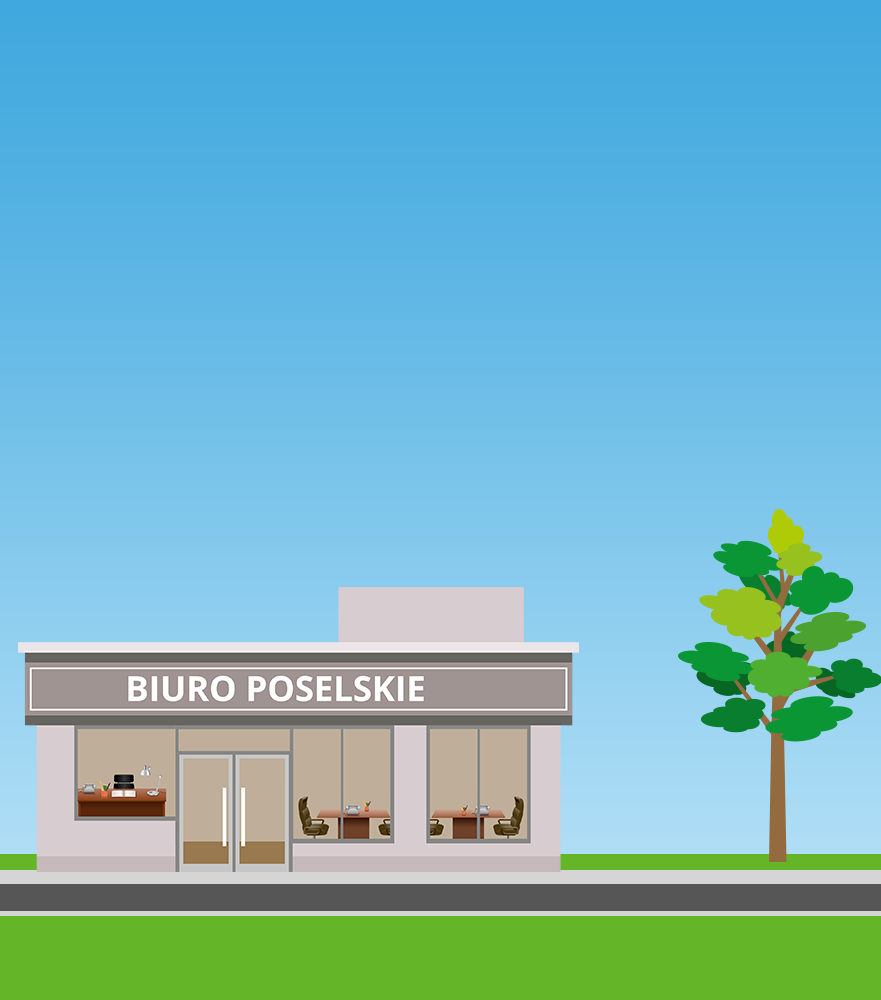
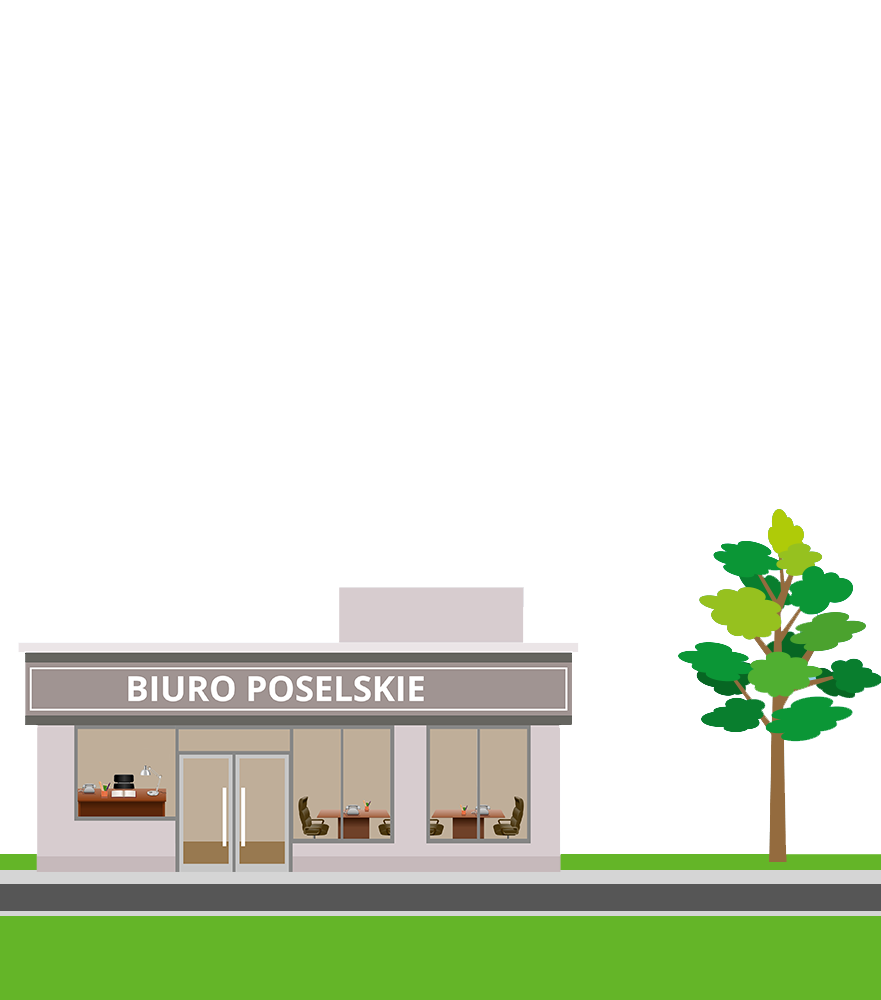
Sejmometr infograph

diff --git a/app/Plugin/Sejmometr/webroot/js/jquery.mousewheel.js b/app/Plugin/Sejmometr/webroot/js/jquery.mousewheel.js
@@ -1,0 +1,234 @@
+/*! Copyright (c) 2013 Brandon Aaron (http://brandon.aaron.sh)
+ * Licensed under the MIT License (LICENSE.txt).
+ *
+ * Version: 3.1.11
+ *
+ * Requires: jQuery 1.2.2+
+ */
+
+(function (factory) {
+    if (typeof define === 'function' && define.amd) {
+        // AMD. Register as an anonymous module.
+        define(['jquery'], factory);
+    } else if (typeof exports === 'object') {
+        // Node/CommonJS style for Browserify
+        module.exports = factory;
+    } else {
+        // Browser globals
+        factory(jQuery);
+    }
+}(function ($) {
+
+    var toFix = ['wheel', 'mousewheel', 'DOMMouseScroll', 'MozMousePixelScroll'],
+        toBind = ( 'onwheel' in document || document.documentMode >= 9 ) ?
+            ['wheel'] : ['mousewheel', 'DomMouseScroll', 'MozMousePixelScroll'],
+        slice = Array.prototype.slice,
+        nullLowestDeltaTimeout, lowestDelta;
+
+    if ($.event.fixHooks) {
+        for (var i = toFix.length; i;) {
+            $.event.fixHooks[ toFix[--i] ] = $.event.mouseHooks;
+        }
+    }
+
+    var special = $.event.special.mousewheel = {
+        version: '3.1.11',
+
+        setup: function () {
+            if (this.addEventListener) {
+                for (var i = toBind.length; i;) {
+                    this.addEventListener(toBind[--i], handler, false);
+                }
+            } else {
+                this.onmousewheel = handler;
+            }
+            // Store the line height and page height for this particular element
+            $.data(this, 'mousewheel-line-height', special.getLineHeight(this));
+            $.data(this, 'mousewheel-page-height', special.getPageHeight(this));
+        },
+
+        teardown: function () {
+            if (this.removeEventListener) {
+                for (var i = toBind.length; i;) {
+                    this.removeEventListener(toBind[--i], handler, false);
+                }
+            } else {
+                this.onmousewheel = null;
+            }
+            // Clean up the data we added to the element
+            $.removeData(this, 'mousewheel-line-height');
+            $.removeData(this, 'mousewheel-page-height');
+        },
+
+        getLineHeight: function (elem) {
+            var $parent = $(elem)['offsetParent' in $.fn ? 'offsetParent' : 'parent']();
+            if (!$parent.length) {
+                $parent = $('body');
+            }
+            return parseInt($parent.css('fontSize'), 10);
+        },
+
+        getPageHeight: function (elem) {
+            return $(elem).height();
+        },
+
+        settings: {
+            adjustOldDeltas: true, // see shouldAdjustOldDeltas() below
+            normalizeOffset: true  // calls getBoundingClientRect for each event
+        }
+    };
+
+    $.fn.extend({
+        mousewheel: function (fn) {
+            return fn ? this.bind('mousewheel', fn) : this.trigger('mousewheel');
+        },
+
+        unmousewheel: function (fn) {
+            return this.unbind('mousewheel', fn);
+        }
+    });
+
+
+    function handler(event) {
+        var orgEvent = event || window.event,
+            args = slice.call(arguments, 1),
+            delta = 0,
+            deltaX = 0,
+            deltaY = 0,
+            absDelta = 0,
+            offsetX = 0,
+            offsetY = 0;
+        event = $.event.fix(orgEvent);
+        event.type = 'mousewheel';
+
+        // Old school scrollwheel delta
+        if ('detail'      in orgEvent) {
+            deltaY = orgEvent.detail * -1;
+        }
+        if ('wheelDelta'  in orgEvent) {
+            deltaY = orgEvent.wheelDelta;
+        }
+        if ('wheelDeltaY' in orgEvent) {
+            deltaY = orgEvent.wheelDeltaY;
+        }
+        if ('wheelDeltaX' in orgEvent) {
+            deltaX = orgEvent.wheelDeltaX * -1;
+        }
+
+        // Firefox < 17 horizontal scrolling related to DOMMouseScroll event
+        if ('axis' in orgEvent && orgEvent.axis === orgEvent.HORIZONTAL_AXIS) {
+            deltaX = deltaY * -1;
+            deltaY = 0;
+        }
+
+        // Set delta to be deltaY or deltaX if deltaY is 0 for backwards compatabilitiy
+        delta = deltaY === 0 ? deltaX : deltaY;
+
+        // New school wheel delta (wheel event)
+        if ('deltaY' in orgEvent) {
+            deltaY = orgEvent.deltaY * -1;
+            delta = deltaY;
+        }
+        if ('deltaX' in orgEvent) {
+            deltaX = orgEvent.deltaX;
+            if (deltaY === 0) {
+                delta = deltaX * -1;
+            }
+        }
+
+        // No change actually happened, no reason to go any further
+        if (deltaY === 0 && deltaX === 0) {
+            return;
+        }
+
+        // Need to convert lines and pages to pixels if we aren't already in pixels
+        // There are three delta modes:
+        //   * deltaMode 0 is by pixels, nothing to do
+        //   * deltaMode 1 is by lines
+        //   * deltaMode 2 is by pages
+        if (orgEvent.deltaMode === 1) {
+            var lineHeight = $.data(this, 'mousewheel-line-height');
+            delta *= lineHeight;
+            deltaY *= lineHeight;
+            deltaX *= lineHeight;
+        } else if (orgEvent.deltaMode === 2) {
+            var pageHeight = $.data(this, 'mousewheel-page-height');
+            delta *= pageHeight;
+            deltaY *= pageHeight;
+            deltaX *= pageHeight;
+        }
+
+        // Store lowest absolute delta to normalize the delta values
+        absDelta = Math.max(Math.abs(deltaY), Math.abs(deltaX));
+
+        if (!lowestDelta || absDelta < lowestDelta) {
+            lowestDelta = absDelta;
+
+            // Adjust older deltas if necessary
+            if (shouldAdjustOldDeltas(orgEvent, absDelta)) {
+                lowestDelta /= 40;
+            }
+        }
+
+        // Adjust older deltas if necessary
+        if (shouldAdjustOldDeltas(orgEvent, absDelta)) {
+            // Divide all the things by 40!
+            delta /= 40;
+            deltaX /= 40;
+            deltaY /= 40;
+        }
+
+        // Get a whole, normalized value for the deltas
+        delta = Math[ delta >= 1 ? 'floor' : 'ceil' ](delta / lowestDelta);
+        deltaX = Math[ deltaX >= 1 ? 'floor' : 'ceil' ](deltaX / lowestDelta);
+        deltaY = Math[ deltaY >= 1 ? 'floor' : 'ceil' ](deltaY / lowestDelta);
+
+        // Normalise offsetX and offsetY properties
+        if (special.settings.normalizeOffset && this.getBoundingClientRect) {
+            var boundingRect = this.getBoundingClientRect();
+            offsetX = event.clientX - boundingRect.left;
+            offsetY = event.clientY - boundingRect.top;
+        }
+
+        // Add information to the event object
+        event.deltaX = deltaX;
+        event.deltaY = deltaY;
+        event.deltaFactor = lowestDelta;
+        event.offsetX = offsetX;
+        event.offsetY = offsetY;
+        // Go ahead and set deltaMode to 0 since we converted to pixels
+        // Although this is a little odd since we overwrite the deltaX/Y
+        // properties with normalized deltas.
+        event.deltaMode = 0;
+
+        // Add event and delta to the front of the arguments
+        args.unshift(event, delta, deltaX, deltaY);
+
+        // Clearout lowestDelta after sometime to better
+        // handle multiple device types that give different
+        // a different lowestDelta
+        // Ex: trackpad = 3 and mouse wheel = 120
+        if (nullLowestDeltaTimeout) {
+            clearTimeout(nullLowestDeltaTimeout);
+        }
+        nullLowestDeltaTimeout = setTimeout(nullLowestDelta, 200);
+
+        return ($.event.dispatch || $.event.handle).apply(this, args);
+    }
+
+    function nullLowestDelta() {
+        lowestDelta = null;
+    }
+
+    function shouldAdjustOldDeltas(orgEvent, absDelta) {
+        // If this is an older event and the delta is divisable by 120,
+        // then we are assuming that the browser is treating this as an
+        // older mouse wheel event and that we should divide the deltas
+        // by 40 to try and get a more usable deltaFactor.
+        // Side note, this actually impacts the reported scroll distance
+        // in older browsers and can cause scrolling to be slower than native.
+        // Turn this off by setting $.event.special.mousewheel.settings.adjustOldDeltas to false.
+        return special.settings.adjustOldDeltas && orgEvent.type === 'mousewheel' && absDelta % 120 === 0;
+    }
+
+}));

diff --git a/app/Plugin/Sejmometr/webroot/js/inner-story.js b/app/Plugin/Sejmometr/webroot/js/inner-story.js
@@ -6,12 +6,93 @@
         $near = $story.find('.near'),
         sceneCount = $medium.find('.scene:last').data('scene'),
         minScreenWidth = 1204,
-        screenWidth = ($body.innerWidth() < minScreenWidth) ? minScreenWidth : $body.innerWidth();
+        screenWidth = ($body.innerWidth() < minScreenWidth) ? minScreenWidth : $body.innerWidth(),
+        screenPosPrev = 0,
+        screenPos = 0,
+        sceneAnimationDelayInterval;
 
     /*SET SCREEN SIZE*/
     $story.find('.far, .medium, .near').css('width', sceneCount * screenWidth);
     $medium.find('.scene').css('width', screenWidth);
+    $far.find('.clouds').css('marginLeft', screenWidth);
 
     /*BLOCK WINDOW*/
     $body.addClass('modal-open');
+
+    function whichTransitionEvent() {
+        var t;
+        var el = document.createElement('fakeelement');
+        var transitions = {
+            'transition': 'transitionend',
+            'OTransition': 'oTransitionEnd',
+            'MozTransition': 'transitionend',
+            'WebkitTransition': 'webkitTransitionEnd'
+        }
+
+        for (t in transitions) {
+            if (el.style[t] !== undefined) {
+                return transitions[t];
+            }
+        }
+    }
+
+    var mouseScrollDirection = function (event, delta) {
+        var s = 0, id = event.currentTarget.id || event.currentTarget.nodeName;
+
+        o = '#' + id + ':';
+
+        if (delta > 0)
+            s += delta;
+        else if (delta < 0)
+            s += delta;
+
+        if (event.deltaY > 0)
+            s += event.deltaY;
+        else if (event.deltaY < 0)
+            s += event.deltaY;
+
+        if (event.deltaX > 0)
+            s -= event.deltaX;
+        else if (event.deltaX < 0)
+            s -= event.deltaX;
+
+        screenPos += s;
+        if (screenPos > 0) screenPos = 0;
+
+        _sceneAnimationDelay(screenPos);
+    };
+
+    var _sceneAnimationDelay = function (step) {
+        clearInterval(sceneAnimationDelayInterval);
+        sceneAnimationDelayInterval = setInterval(function () {
+            if (step == screenPosPrev) return;
+
+            var transitionEnd = whichTransitionEvent();
+            $medium[0].addEventListener(transitionEnd, _sceneAnimation(step), false);
+        }, 100);
+    };
+
+    var _sceneAnimation = function (step) {
+        var rightBorder = $medium.width() - screenWidth;
+        console.log(step, (Math.abs(step - screenPosPrev)) * 10);
+
+        /*check if we didn't reach end of infograph*/
+        if (Math.abs(step) >= rightBorder) {
+            $medium.css('left', rightBorder + 'px');
+            screenPos = -rightBorder;
+            return;
+        }
+
+        $story.find('.far, .medium, .near').css('transition-duration', (Math.abs(step - screenPosPrev)) * 10 + 'ms');
+
+        $far.css('left', (step * .4) + 'px');
+        $medium.css('left', step + 'px');
+        $near.css('left', step + 'px');
+
+        screenPosPrev = step;
+    };
+
+    $(document).mousewheel(function (event, delta) {
+        mouseScrollDirection(event, delta);
+    });
 }(jQuery));

diff --git a/app/Plugin/Sejmometr/webroot/less/inner-story.less b/app/Plugin/Sejmometr/webroot/less/inner-story.less
@@ -23,10 +23,20 @@
             display: block;
             width: 11 * @minWidth;
             height: 100%;
+            transition-property: left;
+            transition-duration: 400ms;
+            transition-timing-function: linear;
         }
 
         .far {
-            /*chmury*/
+            background: url(../Sejmometr/img/inner-story/background_sky.png) bottom left repeat-x #3ca6dd;
+
+            .clouds {
+                background: url(../Sejmometr/img/inner-story/background_clouds.png) bottom left no-repeat;
+                width: 100%;
+                height: 100%;
+                float: left;
+            }
         }
 
         .medium {
